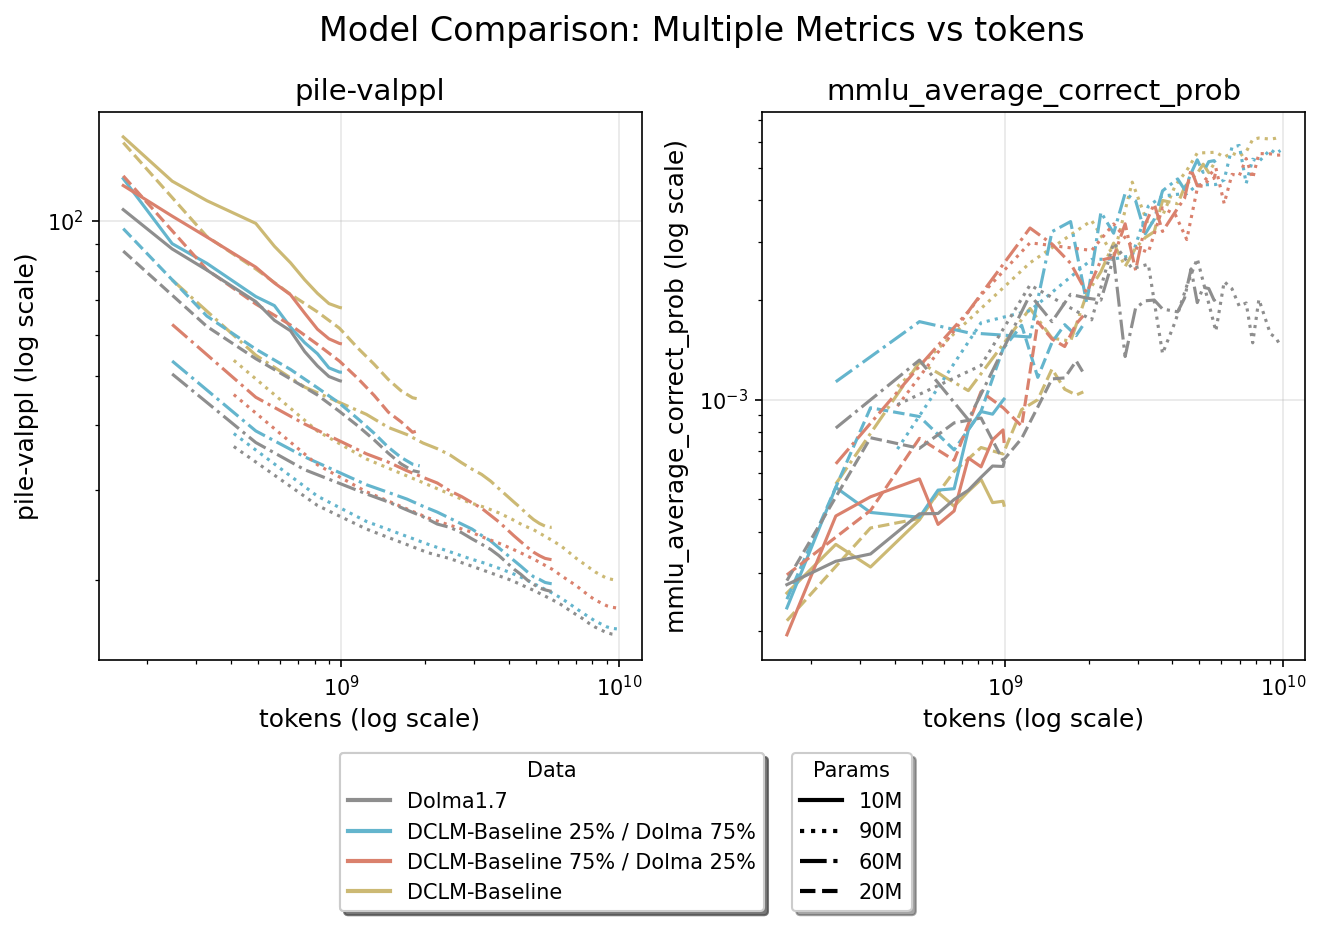
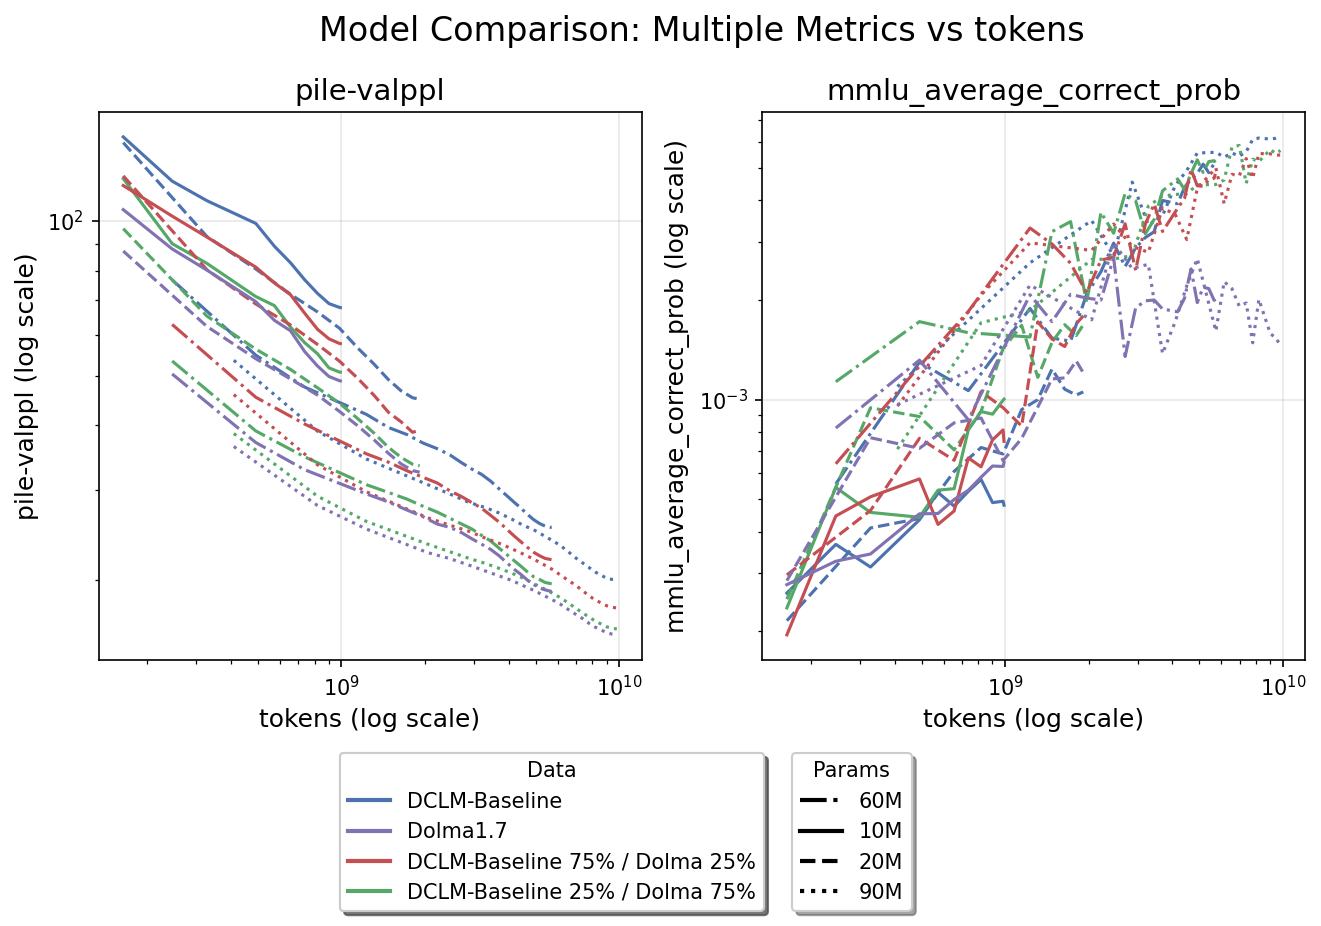
better colormap

diff --git a/scripts/test_plotting.py b/scripts/test_plotting.py
@@ -52,7 +52,7 @@ def add_unified_legend_below(builder, fm, adjust_layout=True, legend_ncol=None):
 
     # Collect all unique legend handles and labels from subplots
     handle_map = {}  # Map from label to handle
-    
+
     for row in range(nrows):
         for col in range(ncols):
             ax = fm.get_axes(row=row, col=col)
@@ -69,23 +69,23 @@ def add_unified_legend_below(builder, fm, adjust_layout=True, legend_ncol=None):
                 legend = ax.get_legend()
                 if legend:
                     legend.remove()
-    
+
     # Order the labels according to the builder's configuration
-    line_col = builder.config.get('line_col')
+    line_col = builder.config.get("line_col")
     all_labels = []
     all_handles = []
-    
+
     # Determine the ordering based on which column is the line_col and available filters
-    if line_col == 'params' and builder.config.get('params_filter'):
+    if line_col == "params" and builder.config.get("params_filter"):
         # Use params_filter order
-        ordered_values = builder.config['params_filter']
-    elif line_col == 'data' and builder.config.get('subplot_filter'):
+        ordered_values = builder.config["params_filter"]
+    elif line_col == "data" and builder.config.get("subplot_filter"):
         # Use subplot_filter order (from with_data method)
-        ordered_values = builder.config['subplot_filter']
+        ordered_values = builder.config["subplot_filter"]
     else:
         # Fallback to the order they appear in handle_map
         ordered_values = list(handle_map.keys())
-    
+
     # Build the ordered lists based on the configuration order
     for value in ordered_values:
         if value in handle_map:
@@ -380,8 +380,10 @@ def main():
         "DCLM-Baseline 75% / Dolma 25%",
         "DCLM-Baseline",
     ]
-    
-    print(f"Using {len(test_params)} params and {len(test_data)} data recipes for dynamic ncols")
+
+    print(
+        f"Using {len(test_params)} params and {len(test_data)} data recipes for dynamic ncols"
+    )
 
     # Configuration 1: params as lines, data as subplots (your main use case)
     print("\n=== Configuration 1: params as lines, data as subplots ===")
@@ -402,8 +404,10 @@ def main():
             ncols=len(test_data),  # Single row matching number of data subplots
             figsize=(len(test_data) * 5, 5),  # Wider figure for single row
             sharey=True,  # Share y-axis across subplots
-            two_color_start="lightblue",  # Light blue for small models
-            two_color_end="darkblue",  # Dark blue for large models
+            two_color_start="red",  # Light blue for small models
+            two_color_end="lightblue",  # Dark blue for large models
+            color_range_min=0.3,
+            color_range_max=1.0,
         )
         fig1, fm1 = builder1.build()
         fix_sharey_labels(builder1, fm1)
@@ -424,15 +428,19 @@ def main():
         # Sort the DataFrame by data column according to test_data order before plotting
         # Create a mapping of data values to their position in test_data list
         data_order_map = {data_val: i for i, data_val in enumerate(test_data)}
-        
+
         # Add a temporary sort column and sort the DataFrame
         df_sorted = df.copy()
-        df_sorted['_temp_data_order'] = df_sorted['data'].map(data_order_map)
-        df_sorted = df_sorted.sort_values('_temp_data_order').drop(columns=['_temp_data_order'])
-        
+        df_sorted["_temp_data_order"] = df_sorted["data"].map(data_order_map)
+        df_sorted = df_sorted.sort_values("_temp_data_order").drop(
+            columns=["_temp_data_order"]
+        )
+
         print(f"Data order in test_data: {test_data}")
-        print(f"Data order after sorting DataFrame: {df_sorted['data'].unique().tolist()}")
-        
+        print(
+            f"Data order after sorting DataFrame: {df_sorted['data'].unique().tolist()}"
+        )
+
         # More concise builder usage
         builder2 = (
             ScalingPlotBuilder(df_sorted)  # Use sorted DataFrame
@@ -449,6 +457,8 @@ def main():
                 sharey=True,  # Share y-axis across subplots
                 two_color_start="lightblue",  # Light blue for data recipes
                 two_color_end="darkblue",  # Dark red for data recipes
+                color_range_min=0.1,  # Start from 30% of colormap (more visible)
+                color_range_max=1.0,  # End at 90% of colormap (not too dark)
             )
         )
         fig2, fm2 = builder2.build()
@@ -477,6 +487,10 @@ def main():
                 title_prefix="Config 3",
                 ncols=len(test_data),  # Single row matching number of data subplots
                 sharey=True,  # Share y-axis for this metric comparison
+                two_color_start="lightblue",  # Light blue for small models (same as Config 1)
+                two_color_end="darkblue",  # Dark blue for large models (same as Config 1)
+                color_range_min=0.1,  # Start from 30% of colormap (more visible)
+                color_range_max=1.0,  # End at 90% of colormap (not too dark)
             )
         )
         fig3, fm3 = builder3.build()
@@ -561,7 +575,7 @@ def main():
                 title_prefix="Config 5",
                 ncols=1,  # Single column (1 data recipe = 1 subplot)
                 colormap="Purples",  # Use single-color purple progression for model size
-                color_range_min=0.2,  # Start from 30% of colormap (more visible)
+                color_range_min=0.1,  # Start from 30% of colormap (more visible)
                 color_range_max=1.0,  # End at 90% of colormap (not too dark)
             )
             .build()

diff --git a/src/datadec/plotting/base.py b/src/datadec/plotting/base.py
@@ -237,21 +237,21 @@ class BasePlotBuilder:
             # Use built-in colormap
             cmap = plt.cm.get_cmap(colormap)
             
-        min_val = min(x[1] for x in numeric_values)
-        max_val = max(x[1] for x in numeric_values)
+        # Generate colors based on index position for evenly spaced colors
+        # This ensures linear spacing regardless of underlying numeric values
+        color_map = {}
+        color_range_span = color_range_max - color_range_min
+        n_values = len(numeric_values)
         
-        # Handle edge case where all values are the same
-        if min_val == max_val:
+        # Handle edge case where there's only one value
+        if n_values == 1:
             color = cmap((color_range_min + color_range_max) / 2)
             return {val: mcolors.to_hex(color) for val, _ in numeric_values}
         
-        # Generate colors based on normalized values
-        # Map to configurable color range instead of full [0.0, 1.0] range
-        color_map = {}
-        color_range_span = color_range_max - color_range_min
-        for val, numeric in numeric_values:
+        for i, (val, numeric) in enumerate(numeric_values):
+            # Use index position for linear spacing: 0, 1, 2, ... n-1
             # Normalize to [color_range_min, color_range_max] range
-            normalized = color_range_min + color_range_span * (numeric - min_val) / (max_val - min_val)
+            normalized = color_range_min + color_range_span * i / (n_values - 1)
             color = cmap(normalized)
             color_map[val] = mcolors.to_hex(color)
         
